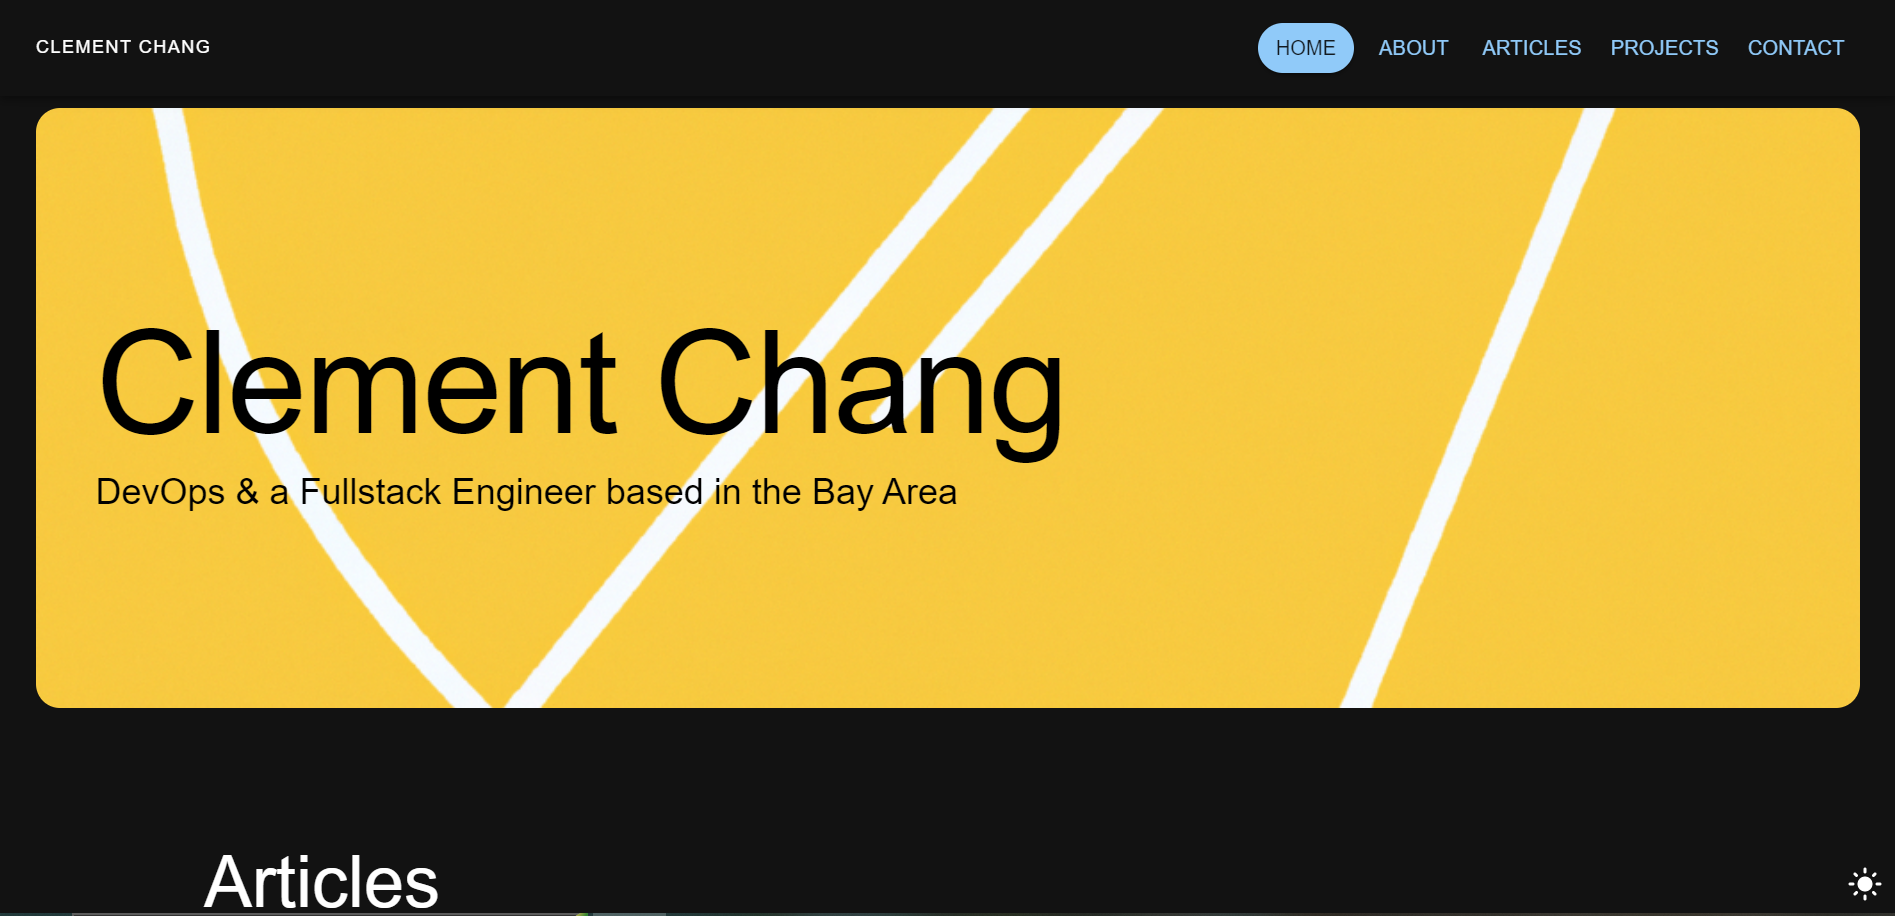
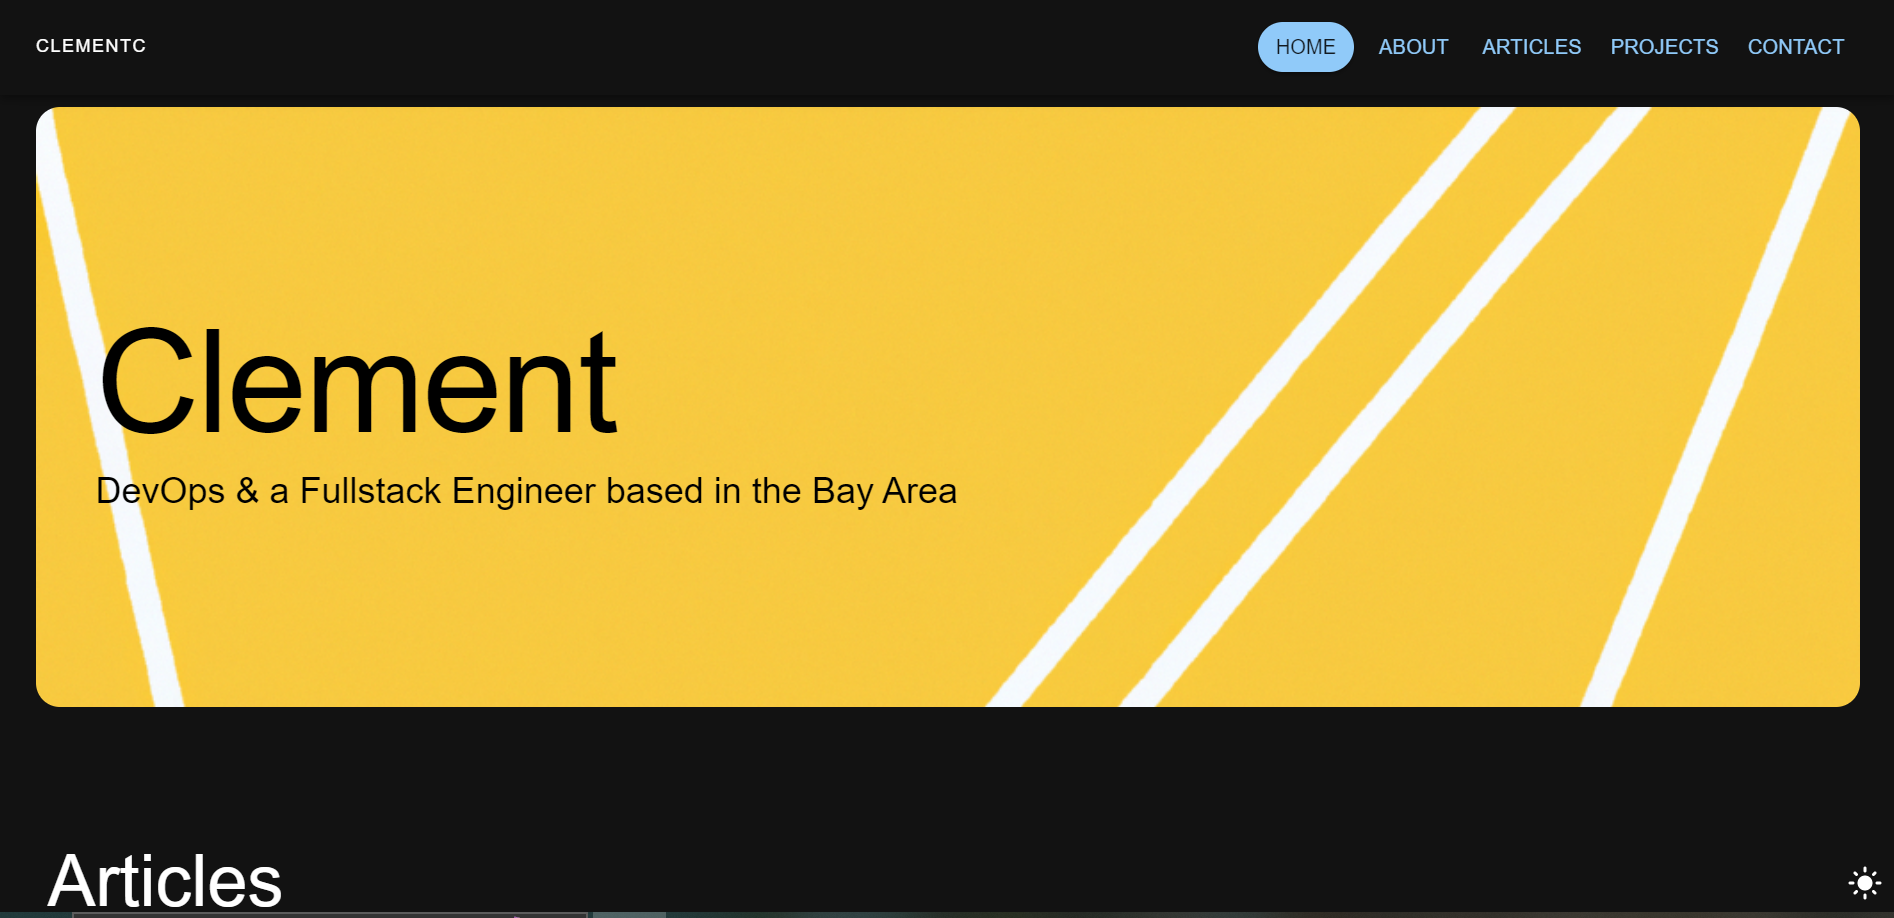
update

diff --git a/public/index.html b/public/index.html
@@ -5,12 +5,12 @@
     <link rel="icon" href="%PUBLIC_URL%/favicon.ico" />
     <meta name="viewport" content="width=device-width, initial-scale=1" />
     <meta name="theme-color" content="#000000" />
-    <meta name="Clement Chang"content="Portfolio and blog made by Clement Chang"/>
+    <meta name="ClementC"content="Portfolio and blog made by Clement"/>
     <meta property="og:type" content="website">
-    <meta property="og:title" content="Clement Chang">
-    <meta property="og:description" content="Portfolio and blog made by Clement Chang">
+    <meta property="og:title" content="ClementC">
+    <meta property="og:description" content="Portfolio and blog made by Clement">
     <meta property="og:image" content="%PUBLIC_URL%/personalweb.PNG">
-    <meta property="og:url" content="https://clementchang.info/home">
+    <meta property="og:url" content="https://clementc.dev/home">
 
     <link rel="apple-touch-icon" href="%PUBLIC_URL%/logo192.png" />
     <!--
@@ -18,7 +18,7 @@
       user's mobile device or desktop. See https://developers.google.com/web/fundamentals/web-app-manifest/
     -->
     <link rel="manifest" href="%PUBLIC_URL%/manifest.json" />
-    <title>Clement Chang</title>
+    <title>ClementC</title>
   </head>
   <body style="margin: 0; padding: 0;">
     <noscript>Woah! You're either a caveman or wanted by the FBI. 
